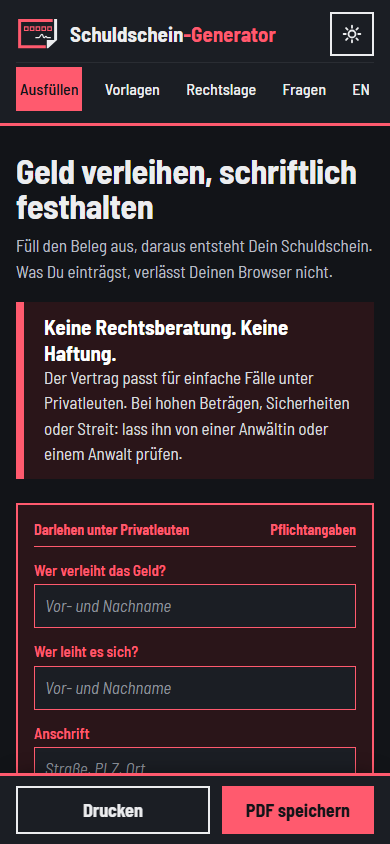
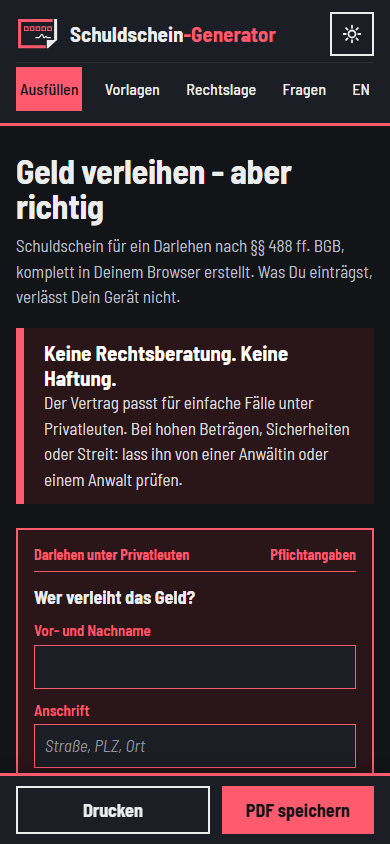
feat: Personenblöcke, Pflichtangaben beim Schuldner, sachlichere Texte
- Beleg mit einem Block je Person, auf dem Handy war die zweite "Anschrift"
  keiner Person mehr zuzuordnen
- Schuldner: Geburtsdatum und Ausweisnummer sind Pflicht und stehen im Vertrag,
  leer als Lücke bzw. Schreiblinie in der Vorlage
- Zeuge mit Geburtsdatum und Ausweisnummer
- Gesetzlicher Verzugszins auch in der kompakten Fassung
- Copyright "Vorlage © Michael Blaess" im Dokumentfuß
- Fokusrahmen am Betrag umschließt Feld und EUR gemeinsam
- Überschrift "Geld verleihen - aber richtig", Untertitel mit §§ 488 ff. BGB,
  lockere Formulierungen durch sachliche ersetzt

diff --git a/src/lib/vertrag.ts b/src/lib/vertrag.ts
@@ -33,7 +33,7 @@ export interface Angaben {
   rhythmus: Rhythmus;
   ersteRate: Tag | null;
   zweck: string;
-  zeuge: { name: string; adresse: string };
+  zeuge: { name: string; adresse: string; geburt: Tag | null; ausweis: string };
 }
 
 export type Fassung = 'kompakt' | 'ausfuehrlich' | 'raten' | 'quittung';
@@ -72,7 +72,7 @@ export function leereAngaben(): Angaben {
     rhythmus: 'einmal',
     ersteRate: null,
     zweck: '',
-    zeuge: { name: '', adresse: '' },
+    zeuge: { name: '', adresse: '', geburt: null, ausweis: '' },
   };
 }
 
@@ -90,6 +90,8 @@ const W = {
     worte: 'Betrag in Worten',
     datum: 'Datum',
     anzahl: 'Anzahl',
+    geburt: 'Geburtsdatum',
+    ausweisHinweis: 'Ausweisnummer',
     wohnhaft: ', wohnhaft ',
     geboren: ', geboren am ',
     ausweis: ', Ausweisnummer ',
@@ -133,6 +135,7 @@ const W = {
     nehmerDoppel: 'Darlehensnehmer/in: ',
     gewaehrt: 'Darlehensgeber/in gewährt Darlehensnehmer/in ein Darlehen über ',
     empfang: '). Darlehensnehmer/in bestätigt mit der Unterschrift, den Betrag',
+    verzugKurz: 'Bei verspäteter Zahlung gelten die gesetzlichen Verzugszinsen (§ 288 BGB).',
     verzug: 'Wird eine Zahlung nicht rechtzeitig geleistet, gelten die gesetzlichen Verzugszinsen (§ 288 BGB). Ist für die Zahlung ein Kalendertag bestimmt, bedarf es keiner Mahnung (§ 286 BGB).',
     quittung: 'Für jede Zahlung stellt Darlehensgeber/in auf Verlangen eine Quittung aus. Nach vollständiger Rückzahlung wird dieser Schuldschein zurückgegeben (§§ 368, 371 BGB).',
     schluss: 'Änderungen und Ergänzungen dieses Vertrags müssen schriftlich festgehalten werden. Jede Seite erhält eine unterschriebene Ausfertigung.',
@@ -143,6 +146,7 @@ const W = {
     uZeuge: 'Ort, Datum, Unterschrift Zeuge/Zeugin',
     fuss: 'Erstellt mit schuldschein-generator.de. Keine Rechtsberatung. Zweimal ausdrucken, beide Exemplare eigenhändig unterschreiben.',
     fussVorlage: 'Vorlage von schuldschein-generator.de. Keine Rechtsberatung. Zweimal ausdrucken, beide Exemplare eigenhändig unterschreiben.',
+    copyright: 'Vorlage',
     qIch: 'Ich, ',
     qVon: ', bestätige, von ',
     qAm: ' am ',
@@ -164,6 +168,8 @@ const W = {
     worte: 'Amount in words',
     datum: 'Date',
     anzahl: 'Number',
+    geburt: 'Date of birth',
+    ausweisHinweis: 'ID number',
     wohnhaft: ', residing at ',
     geboren: ', born on ',
     ausweis: ', ID card number ',
@@ -207,6 +213,7 @@ const W = {
     nehmerDoppel: 'Borrower: ',
     gewaehrt: 'The lender grants the borrower a loan of ',
     empfang: '). By signing, the borrower confirms having received the amount',
+    verzugKurz: 'If a payment is late, statutory default interest applies (§ 288 German Civil Code).',
     verzug: 'If a payment is not made on time, statutory default interest applies (§ 288 German Civil Code). Where a calendar date is set for the payment, no reminder is required (§ 286 German Civil Code).',
     quittung: 'For every payment the lender issues a receipt on request. Once the loan has been repaid in full, this promissory note is returned (§§ 368, 371 German Civil Code).',
     schluss: 'Changes and additions to this agreement must be made in writing. Each party receives a signed copy.',
@@ -217,6 +224,7 @@ const W = {
     uZeuge: 'Place, date, signature of the witness',
     fuss: 'Created with schuldschein-generator.de. Not legal advice. Print twice and sign both copies by hand.',
     fussVorlage: 'Template from schuldschein-generator.de. Not legal advice. Print twice and sign both copies by hand.',
+    copyright: 'Template',
     qIch: 'I, ',
     qVon: ', confirm having received from ',
     qAm: ' on ',
@@ -244,15 +252,19 @@ function prozent(wert: number, sprache: Sprache): string {
   return wert.toLocaleString(sprache === 'de' ? 'de-DE' : 'en-GB', { maximumFractionDigits: 3 });
 }
 
-/** Name, Anschrift und die freiwilligen Angaben einer Person als Teile eines Satzes. */
-function person(p: Person, s: Sprache): Teil[] {
+/**
+ * Name, Anschrift, Geburtsdatum und Ausweisnummer einer Person als Teile eines Satzes.
+ * Mit luecken = true stehen Geburtsdatum und Ausweis auch leer im Text (Pflicht beim Schuldner,
+ * Schreiblinie in der Vorlage), sonst nur, wenn sie angegeben sind.
+ */
+function person(p: Person, s: Sprache, luecken: boolean): Teil[] {
   const w = W[s];
   const teile: Teil[] = [l(p.name, w.name), w.wohnhaft, l(p.adresse, w.anschrift, 'lang')];
-  if (p.geburt) {
-    teile.push(`${w.geboren}${formatiereTag(p.geburt, s)}`);
+  if (p.geburt || luecken) {
+    teile.push(w.geboren, l(p.geburt ? formatiereTag(p.geburt, s) : '', w.geburt, 'kurz'));
   }
-  if (p.ausweis.trim()) {
-    teile.push(`${w.ausweis}${p.ausweis.trim()}`);
+  if (p.ausweis.trim() || luecken) {
+    teile.push(w.ausweis, l(p.ausweis.trim(), w.ausweisHinweis, 'mittel'));
   }
   return teile;
 }
@@ -344,7 +356,13 @@ function unterschriften(a: Angaben, s: Sprache): Baustein[] {
   if (a.zeuge.name.trim()) {
     const zeuge: Teil[] = [w.zeuge, a.zeuge.name.trim()];
     if (a.zeuge.adresse.trim()) {
-      zeuge.push(`, ${a.zeuge.adresse.trim()}`);
+      zeuge.push(`${w.wohnhaft}${a.zeuge.adresse.trim()}`);
+    }
+    if (a.zeuge.geburt) {
+      zeuge.push(`${w.geboren}${formatiereTag(a.zeuge.geburt, s)}`);
+    }
+    if (a.zeuge.ausweis.trim()) {
+      zeuge.push(`${w.ausweis}${a.zeuge.ausweis.trim()}`);
     }
     bausteine.push({ art: 'absatz', teile: zeuge });
     felder.push(w.uZeuge);
@@ -372,8 +390,8 @@ export function erzeugeVertrag(a: Angaben, fassung: Fassung, s: Sprache, vorlage
   if (fassung === 'ausfuehrlich') {
     b.push(
       { art: 'ueberschrift', text: w.p1 },
-      { art: 'absatz', teile: [w.geberDoppel, ...person(a.geber, s)] },
-      { art: 'absatz', teile: [w.nehmerDoppel, ...person(a.nehmer, s)] },
+      { art: 'absatz', teile: [w.geberDoppel, ...person(a.geber, s, vorlage)] },
+      { art: 'absatz', teile: [w.nehmerDoppel, ...person(a.nehmer, s, true)] },
       { art: 'ueberschrift', text: w.p2 },
       { art: 'absatz', teile: [w.gewaehrt, ...betragTeile(a, s), w.empfang, mitLeer(auszahlung(a, s, vorlage)), w.erhalten] },
       ...zweck,
@@ -394,13 +412,14 @@ export function erzeugeVertrag(a: Angaben, fassung: Fassung, s: Sprache, vorlage
       {
         art: 'absatz',
         teile: [
-          ...person(a.nehmer, s), w.rolleNehmer, w.bestaetigt, ...person(a.geber, s), w.rolleGeber,
+          ...person(a.nehmer, s, true), w.rolleNehmer, w.bestaetigt, ...person(a.geber, s, vorlage), w.rolleGeber,
           w.darlehenUeber, ...betragTeile(a, s), ')', mitLeer(aus), w.erhalten,
         ],
       },
       ...zweck,
       { art: 'absatz', teile: zinsSatz(a, s, vorlage) },
       ...rueckzahlung(a, s, vorlage, fassung).map((teile): Baustein => ({ art: 'absatz', teile })),
+      { art: 'absatz', teile: [w.verzugKurz] },
       { art: 'absatz', teile: [w.rueckgabe] },
     );
   }
@@ -408,8 +427,14 @@ export function erzeugeVertrag(a: Angaben, fassung: Fassung, s: Sprache, vorlage
   if (tabelle) {
     b.push(tabelle);
   }
-  b.push(...unterschriften(a, s), { art: 'fuss', text: vorlage ? w.fussVorlage : w.fuss });
+  b.push(...unterschriften(a, s), { art: 'fuss', text: fussText(s, vorlage) });
   return b;
+}
+
+/** Fusszeile des Dokuments mit Michaels Copyright an der Vorlage, das Jahr laeuft mit. */
+function fussText(s: Sprache, vorlage: boolean): string {
+  const w = W[s];
+  return `${vorlage ? w.fussVorlage : w.fuss} ${w.copyright} © ${new Date().getFullYear()} Michael Blaess.`;
 }
 
 function quittung(a: Angaben, s: Sprache): Baustein[] {
@@ -427,7 +452,7 @@ function quittung(a: Angaben, s: Sprache): Baustein[] {
     { art: 'absatz', teile: [w.qGetilgt, l('', w.betrag, 'kurz'), w.qOffen] },
     { art: 'absatz', teile: [w.qSchein] },
     { art: 'unterschriften', felder: [w.uGeber] },
-    { art: 'fuss', text: w.fussVorlage },
+    { art: 'fuss', text: fussText(s, true) },
   ];
 }
 

diff --git a/src/lib/texte-generator.ts b/src/lib/texte-generator.ts
@@ -3,8 +3,8 @@ import type { Sprache } from './i18n';
 /** Texte des Generators, im Formular und im Skript gleichermassen genutzt. */
 export const GT = {
   de: {
-    titel: 'Geld verleihen, schriftlich festhalten',
-    lead: 'Füll den Beleg aus, daraus entsteht Dein Schuldschein. Was Du einträgst, verlässt Deinen Browser nicht.',
+    titel: 'Geld verleihen - aber richtig',
+    lead: 'Schuldschein für ein Darlehen nach §§ 488 ff. BGB, komplett in Deinem Browser erstellt. Was Du einträgst, verlässt Dein Gerät nicht.',
     kopfLinks: 'Darlehen unter Privatleuten',
     kopfRechts: 'Pflichtangaben',
     geberName: 'Wer verleiht das Geld?',
@@ -36,6 +36,8 @@ export const GT = {
     personen: 'Geburtsdaten und Ausweis',
     geburt: 'Geburtsdatum',
     ausweis: 'Ausweisnummer',
+    freiwillig: ' (freiwillig)',
+    nehmerHinweis: 'Geburtsdatum und Ausweisnummer machen eindeutig, wer das Darlehen erhalten hat.',
     rolleGeber: 'Wer verleiht',
     rolleNehmer: 'Wer sich leiht',
     personenHinweis: 'Hilft, falls es später Streit gibt, wer genau gemeint war. Freiwillig.',
@@ -78,6 +80,8 @@ export const GT = {
       summe: 'Betrag',
       zurueck: 'Rückzahlung',
       erste: 'erste Rate',
+      nehmer_geburt: 'Geburtsdatum (leiht sich)',
+      nehmer_ausweis: 'Ausweisnummer (leiht sich)',
     } as Record<string, string>,
     fehlerBetrag: 'Bitte einen Betrag wie 2.500 oder 2.500,50 eingeben.',
     fehlerIban: 'Diese IBAN stimmt nicht, bitte noch einmal prüfen.',
@@ -87,8 +91,8 @@ export const GT = {
     datei: 'Schuldschein',
   },
   en: {
-    titel: 'Lend money, put it in writing',
-    lead: 'Fill in the slip and your promissory note is created from it. Nothing you enter leaves your browser.',
+    titel: 'Lend money - the right way',
+    lead: 'A promissory note for a loan under §§ 488 ff. of the German Civil Code, created entirely in your browser. Nothing you enter leaves your device.',
     kopfLinks: 'Loan between private individuals',
     kopfRechts: 'Required',
     geberName: 'Who is lending the money?',
@@ -119,7 +123,9 @@ export const GT = {
     ratenHinweis: 'The instalments are calculated from the amount, the first instalment and the "Repay by" date.',
     personen: 'Dates of birth and ID',
     geburt: 'Date of birth',
-    ausweis: 'ID card number',
+    ausweis: 'ID card or passport number',
+    freiwillig: ' (optional)',
+    nehmerHinweis: 'Date of birth and ID number make clear who received the loan.',
     rolleGeber: 'Lender',
     rolleNehmer: 'Borrower',
     personenHinweis: 'Helps if there is ever a dispute about who exactly was meant. Optional.',
@@ -162,6 +168,8 @@ export const GT = {
       summe: 'amount',
       zurueck: 'repayment',
       erste: 'first instalment',
+      nehmer_geburt: 'date of birth (borrower)',
+      nehmer_ausweis: 'ID number (borrower)',
     } as Record<string, string>,
     fehlerBetrag: 'Please enter an amount such as 2,500 or 2,500.50.',
     fehlerIban: 'This IBAN is not valid, please check it again.',

diff --git a/src/scripts/generator.ts b/src/scripts/generator.ts
@@ -14,7 +14,7 @@ const SPEICHER = 'schuldschein-eingaben';
 const TEXTFELDER = [
   'geber_name', 'nehmer_name', 'geber_adresse', 'nehmer_adresse', 'summe', 'zurueck', 'zinssatz', 'rhythmus', 'erste',
   'geber_geburt', 'geber_ausweis', 'nehmer_geburt', 'nehmer_ausweis', 'geber_iban', 'nehmer_iban', 'zweck',
-  'zeuge_name', 'zeuge_adresse',
+  'zeuge_name', 'zeuge_adresse', 'zeuge_geburt', 'zeuge_ausweis',
 ];
 
 function feld(id: string): HTMLInputElement {
@@ -124,7 +124,7 @@ export function starteGenerator(): void {
     a.geber.ausweis = wert('geber_ausweis');
     a.nehmer.ausweis = wert('nehmer_ausweis');
     a.zweck = wert('zweck');
-    a.zeuge = { name: wert('zeuge_name'), adresse: wert('zeuge_adresse') };
+    a.zeuge = { name: wert('zeuge_name'), adresse: wert('zeuge_adresse'), geburt: leseIso(wert('zeuge_geburt')), ausweis: wert('zeuge_ausweis') };
     a.auszahlung = (gewaehlt('auszahlung') || 'bar') as Auszahlung;
     a.rhythmus = (wert('rhythmus') || 'einmal') as Rhythmus;
 
@@ -169,24 +169,19 @@ export function starteGenerator(): void {
     };
     setze('zinsen', a.zinssatz ? `${a.zinssatz.toLocaleString(sprich(sprache))}${g.proJahr}` : g.zinslos);
     setze('raten', a.rhythmus === 'monatlich' ? g.monatlich : a.rhythmus === 'vierteljaehrlich' ? g.vierteljaehrlich : g.einmal);
-    const personen = [a.geber.geburt, a.nehmer.geburt, a.geber.ausweis, a.nehmer.ausweis].some(Boolean);
-    setze('personen', personen ? g.angegeben : g.nichtAngegeben);
     setze('bank', a.geber.iban || a.nehmer.iban ? g.angegeben : g.nichtAngegeben);
     setze('zweck', a.zweck ? g.angegeben : g.nichtAngegeben);
     setze('zeuge', a.zeuge.name || g.keine);
-    for (const [rolle, name, text] of [['geber', a.geber.name, g.rolleGeber], ['nehmer', a.nehmer.name, g.rolleNehmer]] as const) {
-      const el = document.querySelector(`[data-rolle="${rolle}"]`);
-      if (el) {
-        el.textContent = name ? `${text}: ${name}` : text;
-      }
-    }
 
     // Pflichtangaben zaehlen
     const fehlend: string[] = [];
-    for (const id of ['geber_name', 'nehmer_name', 'geber_adresse', 'nehmer_adresse']) {
+    for (const id of ['geber_name', 'geber_adresse', 'nehmer_name', 'nehmer_adresse', 'nehmer_ausweis']) {
       if (!wert(id)) {
         fehlend.push(g.pflicht[id]);
       }
+    }
+    if (!a.nehmer.geburt) {
+      fehlend.push(g.pflicht.nehmer_geburt);
     }
     if (!a.cent) {
       fehlend.push(g.pflicht.summe);

diff --git a/tests/lib.test.ts b/tests/lib.test.ts
@@ -128,6 +128,8 @@ function beispiel(): Angaben {
   a.geber.adresse = 'Lindenweg 12, 04109 Leipzig';
   a.nehmer.name = 'Jonas Keller';
   a.nehmer.adresse = 'Am Markt 3, 04109 Leipzig';
+  a.nehmer.geburt = { jahr: 1986, monat: 11, tag: 2 };
+  a.nehmer.ausweis = 'L01X00T47';
   a.cent = 250000;
   a.zurueck = { jahr: 2027, monat: 12, tag: 31 };
   return a;
@@ -136,10 +138,28 @@ function beispiel(): Angaben {
 describe('erzeugeVertrag', () => {
   it('bestätigt den Empfang und nennt Betrag in Worten', () => {
     const text = alsText(erzeugeVertrag(beispiel(), 'kompakt', 'de'));
-    expect(text).toContain('Jonas Keller, wohnhaft Am Markt 3, 04109 Leipzig (Darlehensnehmer/in), bestätigt, von Anna Berger');
+    expect(text).toContain('Jonas Keller, wohnhaft Am Markt 3, 04109 Leipzig, geboren am 02.11.1986, Ausweisnummer L01X00T47 (Darlehensnehmer/in), bestätigt, von Anna Berger');
+    expect(text).toContain('Bei verspäteter Zahlung gelten die gesetzlichen Verzugszinsen (§ 288 BGB).');
+    expect(text).toMatch(/Vorlage © \d{4} Michael Blaess\.$/);
     expect(text).toContain('ein Darlehen über 2.500,00 EUR (in Worten: zweitausendfünfhundert Euro) in bar erhalten zu haben.');
     expect(text).toContain('Das Darlehen ist bis zum 31.12.2027 in einer Summe zurückzuzahlen.');
     expect(text).toContain('Das Darlehen ist zinslos.');
+  });
+
+  it('Geburtsdatum und Ausweis des Schuldners stehen auch leer als Lücke im Text', () => {
+    const a = beispiel();
+    a.nehmer.geburt = null;
+    a.nehmer.ausweis = '';
+    const text = alsText(erzeugeVertrag(a, 'kompakt', 'de'));
+    expect(text).toContain('geboren am ____, Ausweisnummer ____ (Darlehensnehmer/in)');
+    // beim Geber nur, wenn angegeben
+    expect(text).not.toContain('Leipzig, geboren am ____, Ausweisnummer ____ (Darlehensgeber/in)');
+  });
+
+  it('nennt Zeugin mit Anschrift, Geburtsdatum und Ausweis', () => {
+    const a = beispiel();
+    a.zeuge = { name: 'Eva Lang', adresse: 'Ring 1, 04109 Leipzig', geburt: { jahr: 1970, monat: 5, tag: 1 }, ausweis: 'T22000129' };
+    expect(alsText(erzeugeVertrag(a, 'kompakt', 'de'))).toContain('Zeuge/Zeugin: Eva Lang, wohnhaft Ring 1, 04109 Leipzig, geboren am 01.05.1970, Ausweisnummer T22000129');
   });
 
   it('enthält keine Gerichtsstandsklausel', () => {

diff --git a/src/styles/global.css b/src/styles/global.css
@@ -136,7 +136,16 @@
   .fehler { color: var(--rot); font-size: 15px; font-weight: 600; margin-top: 3px; }
   .hilfe { font-size: 15px; color: var(--grau); margin-top: 4px; }
 
+  .personen { display: grid; grid-template-columns: 1fr 1fr; gap: 12px 20px; margin-bottom: 14px; }
+  .person-block { border: 0; margin: 0; padding: 0; min-width: 0; display: grid; gap: 10px; align-content: start; }
+  .person-block legend { padding: 0; margin-bottom: 8px; font-size: 18px; font-weight: 700; color: var(--schwarz); }
+  .reihe.eng { margin-bottom: 0; gap: 10px; grid-template-columns: 1fr; }
+  .person-block .hilfe { margin: 0; }
+  .klein { font-weight: 400; color: var(--grau); }
   .betrag { display: flex; align-items: stretch; }
+  /* Fokus um Feld und EUR gemeinsam, sonst endet der Rahmen mitten am Kaestchen */
+  .betrag:focus-within { outline: 3px solid var(--fokus); outline-offset: 2px; }
+  .betrag input:focus-visible { outline: none; }
   .betrag input { --zelle: 30px; height: 50px; width: calc(var(--zelle) * 10 + 2px); flex: none; font-size: 24px; padding: 0 0 0 7px; letter-spacing: calc(var(--zelle) - .6em);
     background: var(--weiss) repeating-linear-gradient(90deg, transparent 0 calc(var(--zelle) - 1px), var(--kaestchen) calc(var(--zelle) - 1px) var(--zelle)); }
   .betrag span { display: grid; place-items: center; padding: 0 12px; border: 1px solid var(--rot); border-left: 0; background: var(--weiss); font-weight: 700; color: var(--rot); }
@@ -300,7 +309,8 @@
 }
 
 @media (max-width: 560px) {
-  .reihe { grid-template-columns: 1fr; }
+  .reihe, .personen { grid-template-columns: 1fr; }
+  .personen { gap: 22px; }
   .leiste .stand-text { display: none; }
   .leiste .innen { grid-template-columns: 1fr auto; }
   .betrag input { --zelle: 26px; font-size: 21px; }

diff --git a/src/lib/i18n.ts b/src/lib/i18n.ts
@@ -37,7 +37,7 @@ const TEXTE = {
     'haftung.kurz': 'Keine Rechtsberatung. Keine Haftung.',
     'haftung.lang': 'Der Vertrag passt für einfache Fälle unter Privatleuten. Bei hohen Beträgen, Sicherheiten oder Streit: lass ihn von einer Anwältin oder einem Anwalt prüfen.',
     'skip': 'Zum Inhalt springen',
-    'consent.titel': 'Darf ich mitzählen?',
+    'consent.titel': 'Statistik erlauben?',
     'consent.text': 'Diese Seite misst mit Google Analytics, welche Seiten besucht werden. Was Du in das Formular einträgst, erfährt Google nie. Ohne Deine Zustimmung wird nichts davon geladen und kein Cookie gesetzt. Du kannst die Entscheidung jederzeit unten auf jeder Seite ändern.',
     'consent.ja': 'Einverstanden',
     'consent.nein': 'Nur das Nötigste',
@@ -72,7 +72,7 @@ const TEXTE = {
     'haftung.kurz': 'Not legal advice. No liability.',
     'haftung.lang': 'The agreement suits simple cases between private individuals. For large amounts, collateral or an existing dispute, have it checked by a lawyer.',
     'skip': 'Skip to content',
-    'consent.titel': 'May I count your visit?',
+    'consent.titel': 'Allow statistics?',
     'consent.text': 'This site uses Google Analytics to see which pages are visited. Google never learns what you type into the form. Without your consent none of it is loaded and no cookie is set. You can change your mind at any time at the bottom of every page.',
     'consent.ja': 'I agree',
     'consent.nein': 'Essentials only',

diff --git a/README.de.md b/README.de.md
@@ -11,7 +11,7 @@
 [![Astro](https://img.shields.io/badge/astro-7-3b82f6?logo=astro&logoColor=white)](https://astro.build/)
 [![Letzter Commit](https://img.shields.io/github/last-commit/michaelblaess/schuldschein-generator?logo=git&logoColor=white&color=3b82f6)](https://github.com/michaelblaess/schuldschein-generator/commits/main)
 
-Geld verleihen, schriftlich festhalten: ein Schuldschein nach deutschem Recht, auf einer Seite ausgefüllt, als PDF gespeichert oder gedruckt. Kostenlos, ohne Anmeldung, und was Du einträgst, verlässt den Browser nicht.
+Geld verleihen, aber richtig: ein Schuldschein nach deutschem Recht, auf einer Seite ausgefüllt, als PDF gespeichert oder gedruckt. Kostenlos, ohne Anmeldung, und was Du einträgst, verlässt den Browser nicht.
 
 Live unter **[schuldschein-generator.de](https://schuldschein-generator.de)**, auf Deutsch und Englisch.
 
@@ -23,7 +23,7 @@ Live unter **[schuldschein-generator.de](https://schuldschein-generator.de)**, a
 
 ## Was er kann
 
-- **Eine Seite, kein Assistent.** Die Pflichtangaben stehen auf einem Beleg im Stil eines Überweisungsträgers. Zinsen, Raten, Geburtsdaten, Bankverbindungen, Zweck und Zeuge klappen nur bei Bedarf auf, und jeder Streifen zeigt auch zugeklappt, was eingestellt ist.
+- **Eine Seite, kein Assistent.** Die Pflichtangaben stehen auf einem Beleg im Stil eines Überweisungsträgers, mit einem Block je Person. Beim Schuldner sind Geburtsdatum und Ausweisnummer Pflicht, damit eindeutig ist, wer das Geld erhalten hat. Zinsen, Raten, Bankverbindungen, Zweck und Zeuge klappen nur bei Bedarf auf, und jeder Streifen zeigt auch zugeklappt, was eingestellt ist.
 - **Live-Vorschau** des Schuldscheins, kompakt oder ausführlich, mit Betrag in Worten (Deutsch und Englisch, samt Cent).
 - **PDF und Druck** direkt aus dem Browser. Das PDF enthält echten Text und echte Unterschriftslinien.
 - **Vorlagen** auf eigener Seite: kompakt, ausführlich, Ratenzahlung und Quittung, als PDF und Word, mit Vorschau.

diff --git a/README.md b/README.md
@@ -11,7 +11,7 @@
 [![Astro](https://img.shields.io/badge/astro-7-3b82f6?logo=astro&logoColor=white)](https://astro.build/)
 [![Last Commit](https://img.shields.io/github/last-commit/michaelblaess/schuldschein-generator?logo=git&logoColor=white&color=3b82f6)](https://github.com/michaelblaess/schuldschein-generator/commits/main)
 
-Put a private loan in writing: a promissory note under German law, filled in on one page, saved as a PDF or printed. Free, no sign-up, and nothing you enter leaves the browser.
+Lend money, the right way: a promissory note under German law, filled in on one page, saved as a PDF or printed. Free, no sign-up, and nothing you enter leaves the browser.
 
 Live at **[schuldschein-generator.de](https://schuldschein-generator.de)**, in German and English.
 
@@ -23,7 +23,7 @@ Live at **[schuldschein-generator.de](https://schuldschein-generator.de)**, in G
 
 ## What it does
 
-- **One page, no wizard.** The required details sit on a slip styled after a German bank transfer form. Interest, instalments, dates of birth, bank accounts, purpose and witness fold out only when needed, and each strip shows its state even when closed.
+- **One page, no wizard.** The required details sit on a slip styled after a German bank transfer form, one block per person. For the borrower, date of birth and ID number are required so that it is clear who received the money. Interest, instalments, bank accounts, purpose and witness fold out only when needed, and each strip shows its state even when closed.
 - **Live preview** of the promissory note, short or detailed version, with the amount in words (German and English, cents included).
 - **PDF and print** straight from the browser. The PDF contains real text and real signature lines.
 - **Templates** on their own page: short, detailed, instalments and receipt, as PDF and Word, with a preview.
